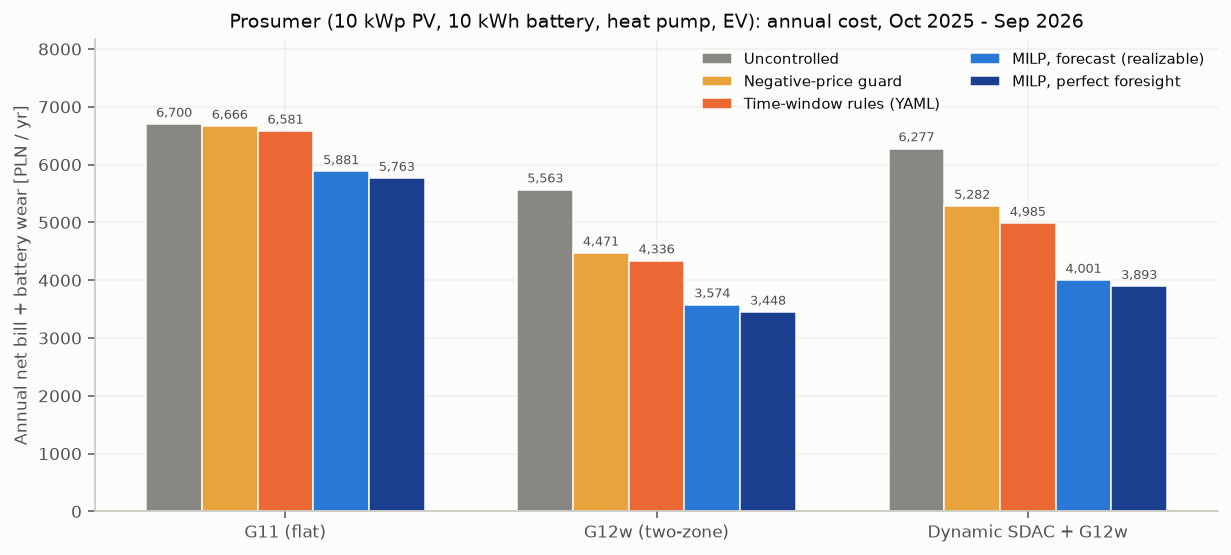
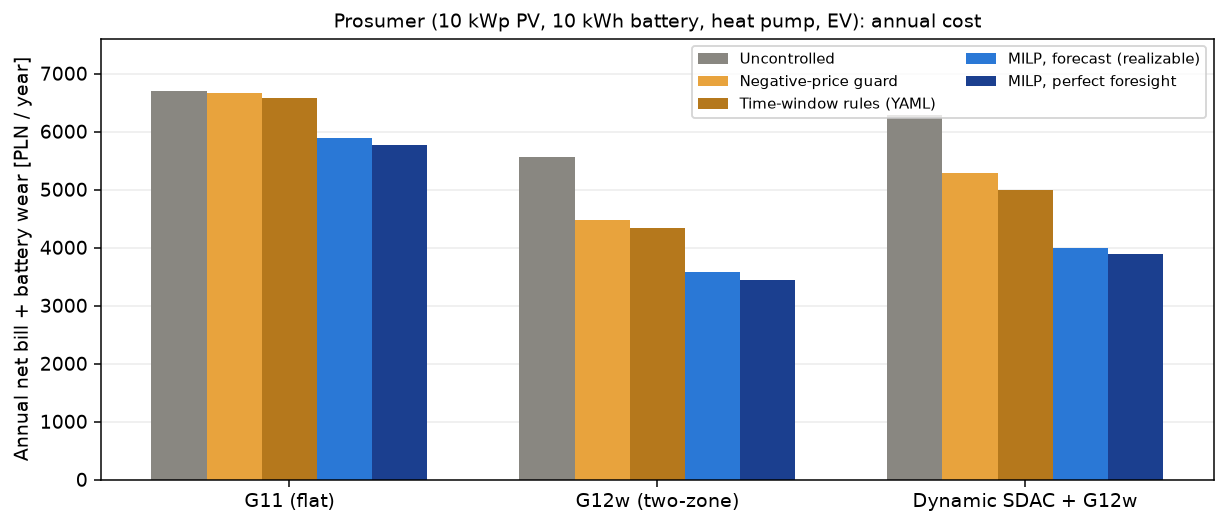
Match matplotlib chart styling to pl-biogas-flex

Changed region(s): [[0.0, 0.0, 0.991, 0.9752]]

diff --git a/src/hems_mpc/pipeline.py b/src/hems_mpc/pipeline.py
@@ -193,7 +193,7 @@ def run_modbus_hil_verification(
 def _save(fig, path: Path) -> None:
     path.parent.mkdir(parents=True, exist_ok=True)
     fig.tight_layout()
-    fig.savefig(path, dpi=135, bbox_inches="tight", facecolor="#fcfcfb")
+    fig.savefig(path, dpi=135, bbox_inches="tight")
     plt.close(fig)
 
 
@@ -207,42 +207,27 @@ def generate_plots(
     ha_24h_frames: list[dict],
     img_dir: Path,
 ) -> None:
-    """Write README charts in the portfolio's light paper style."""
+    """Write README charts in the exact default matplotlib style of pl-biogas-flex and bess-ops-warranty."""
     img_dir.mkdir(parents=True, exist_ok=True)
-    INK, INK2, MUTED, GRID, SURFACE = "#0b0b0b", "#52514e", "#898781", "#e1e0d9", "#fcfcfb"
-    BLUE, NAVY, ORANGE, WARM, GREEN, RED = "#2a78d6", "#1b3f8f", "#eb6834", "#e8a33d", "#1baf7a", "#c8423b"
-
-    plt.rcParams.update(
-        {
-            "font.family": "sans-serif",
-            "font.size": 9,
-            "axes.titlesize": 10,
-            "axes.titleweight": "normal",
-            "axes.grid": True,
-            "grid.alpha": 0.45,
-            "figure.facecolor": SURFACE,
-            "axes.facecolor": SURFACE,
-            "axes.edgecolor": "#c3c2b7",
-            "axes.labelcolor": INK2,
-            "xtick.color": INK2,
-            "ytick.color": INK2,
-            "text.color": INK,
-            "grid.color": GRID,
-        }
+    plt.rcdefaults()
+    BLUE, NAVY, ORANGE, WARM, GREEN, RED, GREY, INK = (
+        "#2a78d6",
+        "#1b3f8f",
+        "#eb6834",
+        "#e8a33d",
+        "#1baf7a",
+        "#c8423b",
+        "#898781",
+        "#52514e",
     )
 
-    def _style_ax(ax):
-        ax.spines["top"].set_visible(False)
-        ax.spines["right"].set_visible(False)
-        ax.set_axisbelow(True)
-
     # 1. Prosumer annual cost by tariff and control strategy
-    fig, ax = plt.subplots(figsize=(9.2, 4.2))
+    fig, ax = plt.subplots(figsize=(9.2, 4.0))
     tariffs = ["G11", "G12w", "DYNAMIC_G12w"]
     strategies = [
-        ("uncontrolled", "Uncontrolled", MUTED),
+        ("uncontrolled", "Uncontrolled", GREY),
         ("neg_price_guard", "Negative-price guard", WARM),
-        ("ha_heuristic", "Time-window rules (YAML)", ORANGE),
+        ("ha_heuristic", "Time-window rules (YAML)", "#b5781c"),
         ("mpc_forecast", "MILP, forecast (realizable)", BLUE),
         ("milp_oracle", "MILP, perfect foresight", NAVY),
     ]
@@ -257,28 +242,18 @@ def generate_plots(
             )
             for tf in tariffs
         ]
-        bars = ax.bar(x + (i - 2) * w, vals, width=w, label=st_label, color=color, edgecolor=SURFACE, linewidth=0.8)
-        for b in bars:
-            h = b.get_height()
-            ax.text(
-                b.get_x() + b.get_width() / 2.0,
-                h + 70,
-                f"{int(round(h)):,}",
-                ha="center",
-                va="bottom",
-                fontsize=7.2,
-                color=INK2,
-            )
-    _style_ax(ax)
+        ax.bar(x + (i - 2) * w, vals, width=w, label=st_label, color=color)
     ax.set_xticks(x, ["G11 (flat)", "G12w (two-zone)", "Dynamic SDAC + G12w"])
-    ax.set_ylabel("Annual net bill + battery wear [PLN / yr]")
-    ax.set_title("Prosumer (10 kWp PV, 10 kWh battery, heat pump, EV): annual cost, Oct 2025 - Sep 2026")
-    ax.set_ylim(0, max(df_prosumer_summary["total_economic_cost_pln"]) * 1.22)
-    ax.legend(loc="upper right", frameon=False, fontsize=8, ncol=2)
+    ax.set_ylabel("Annual net bill + battery wear [PLN / year]")
+    ax.set_title("Prosumer (10 kWp PV, 10 kWh battery, heat pump, EV): annual cost", fontsize=10)
+    ax.set_ylim(0, 7600)
+    ax.grid(axis="y", alpha=0.25)
+    ax.set_axisbelow(True)
+    ax.legend(loc="upper right", fontsize=8, ncol=2)
     _save(fig, img_dir / "bill_comparison.png")
 
     # 2. Example week dispatch (1-3 May 2026)
-    fig, axes = plt.subplots(3, 1, figsize=(9.6, 6.2), sharex=True)
+    fig, axes = plt.subplots(3, 1, figsize=(10.0, 6.2), sharex=True)
     ts_l = df_dyn_mpc["ts_local"]
     win = (ts_l >= pd.Timestamp("2026-05-01 00:00:00", tz="Europe/Warsaw")) & (
         ts_l < pd.Timestamp("2026-05-04 00:00:00", tz="Europe/Warsaw")
@@ -289,124 +264,124 @@ def generate_plots(
     s_unc = df_dyn_unc.loc[win]
     t_axis = s_mpc["ts_local"]
 
-    axes[0].plot(
+    axes[0].step(
         t_axis,
         s_mpc["energy_buy_pln_mwh"] + s_mpc["dist_buy_pln_mwh"],
-        label="Import price (SDAC + G12w)",
-        color=INK2,
-        lw=1.3,
+        where="post",
+        label="import price (SDAC + G12w)",
+        color=INK,
+        lw=0.9,
     )
-    axes[0].plot(t_axis, s_mpc["rce_raw_pln_mwh"], label="RCE export price", color=BLUE, lw=1.3)
-    axes[0].axhline(0.0, color=MUTED, ls="--", lw=0.8)
-    axes[0].fill_between(
+    axes[0].step(
         t_axis,
         s_mpc["rce_raw_pln_mwh"],
-        0.0,
-        where=(s_mpc["rce_raw_pln_mwh"] <= 0.0),
-        color=ORANGE,
-        alpha=0.22,
-        label="RCE <= 0 (0 PLN credit)",
+        where="post",
+        label="RCE export price",
+        color=BLUE,
+        lw=0.9,
+        ls="--",
     )
-    _style_ax(axes[0])
-    axes[0].set_ylabel("PLN / MWh")
-    axes[0].set_title("Dispatch on 1-3 May 2026 (Dynamic SDAC + G12w): negative midday RCE and evening peaks")
-    axes[0].legend(loc="upper right", ncol=3, frameon=False, fontsize=7.8)
+    axes[0].axhline(0.0, color="k", lw=0.6)
+    axes[0].set_ylabel("PLN/MWh")
+    axes[0].set_title("PL, 2026-05-01 .. 2026-05-03: quarter-hour prices and prosumer dispatch", fontsize=10)
+    axes[0].grid(alpha=0.25)
+    axes[0].legend(loc="upper right", fontsize=8)
 
-    axes[1].plot(t_axis, s_mpc["pv_avail_kw"], label="Available PV", color=WARM, lw=1.2)
-    axes[1].plot(
+    axes[1].step(t_axis, s_mpc["pv_avail_kw"], where="post", label="Available PV", color=WARM, lw=0.9)
+    axes[1].step(
         t_axis,
         s_mpc["p_ch_kw"] - s_mpc["p_dis_kw"],
+        where="post",
         label="Battery (+charge / -discharge)",
         color=BLUE,
-        lw=1.4,
+        lw=0.9,
     )
-    axes[1].plot(t_axis, s_mpc["p_hp_kw"] + s_mpc["p_ev_kw"], label="Heat pump + EV", color=GREEN, lw=1.2)
-    axes[1].fill_between(t_axis, 0, s_mpc["p_curt_kw"], color=RED, alpha=0.28, label="Curtailed PV")
-    _style_ax(axes[1])
+    axes[1].step(
+        t_axis,
+        s_mpc["p_hp_kw"] + s_mpc["p_ev_kw"],
+        where="post",
+        label="Heat pump + EV",
+        color=NAVY,
+        lw=0.9,
+    )
+    axes[1].step(t_axis, s_mpc["p_curt_kw"], where="post", label="Curtailed PV", color=ORANGE, lw=0.9, ls=":")
+    axes[1].axhline(0.0, color="k", lw=0.5)
     axes[1].set_ylabel("Power [kW]")
-    axes[1].legend(loc="upper right", ncol=4, frameon=False, fontsize=7.8)
+    axes[1].set_ylim(-6, 13.5)
+    axes[1].grid(alpha=0.25)
+    axes[1].legend(loc="upper right", fontsize=8, ncol=2)
 
-    axes[2].plot(t_axis, s_unc["soc_kwh"] * 10.0, label="Uncontrolled", color=MUTED, ls="--", lw=1.2)
-    axes[2].plot(t_axis, s_mpc["soc_kwh"] * 10.0, label="MILP, forecast (realizable)", color=BLUE, lw=1.6)
-    _style_ax(axes[2])
-    axes[2].set_ylabel("SoC [%]")
-    axes[2].set_ylim(0, 105)
-    axes[2].legend(loc="upper right", ncol=2, frameon=False, fontsize=8)
+    axes[2].plot(t_axis, s_unc["soc_kwh"] * 10.0, label="Uncontrolled", color=GREY, lw=1.0)
+    axes[2].plot(t_axis, s_mpc["soc_kwh"] * 10.0, label="MILP, forecast (realizable)", color=BLUE, lw=1.1)
+    axes[2].set_ylabel("Battery SoC [%]")
+    axes[2].set_ylim(5, 102)
+    axes[2].grid(alpha=0.25)
+    axes[2].legend(loc="lower right", fontsize=8)
     _save(fig, img_dir / "dispatch_week.png")
 
     # 3. C&I B23 site cost breakdown & K-factor
-    fig, (ax1, ax2) = plt.subplots(1, 2, figsize=(9.6, 3.9))
+    fig, (ax1, ax2) = plt.subplots(1, 2, figsize=(9.4, 3.8))
     modes = ["no_bess", "uncontrolled_bess", "mpc_ci_ems"]
     labels = ["PV only", "PV + battery\n(self-consumption)", "PV + battery\n(MILP, forecast)"]
     e_cost = [ci_results[m]["annual_energy_dist_pln"] / 1000.0 for m in modes]
     cap_cost = [ci_results[m]["annual_capacity_fee_pln"] / 1000.0 for m in modes]
     pen_cost = [ci_results[m]["annual_exceed_penalty_pln"] / 1000.0 for m in modes]
-    net_tot = [ci_results[m]["annual_total_net_cost_pln"] / 1000.0 for m in modes]
 
     x_ci = np.arange(len(modes))
-    ax1.bar(x_ci, e_cost, width=0.46, label="Energy + B23 distribution", color=BLUE)
-    ax1.bar(x_ci, cap_cost, width=0.46, bottom=e_cost, label="PSE capacity fee", color=WARM)
+    ax1.bar(x_ci, e_cost, width=0.45, label="Energy + B23 distribution", color=BLUE)
+    ax1.bar(x_ci, cap_cost, width=0.45, bottom=e_cost, label="PSE capacity fee", color=WARM)
     ax1.bar(
         x_ci,
         pen_cost,
-        width=0.46,
+        width=0.45,
         bottom=np.array(e_cost) + np.array(cap_cost),
-        label="Contracted power penalty (>40 kW)",
+        label=">40 kW penalty",
         color=RED,
     )
-    for i, tot in enumerate(net_tot):
-        ax1.text(
-            i,
-            e_cost[i] + cap_cost[i] + pen_cost[i] + 2.5,
-            f"net {tot:.1f} k",
-            ha="center",
-            fontsize=8,
-            color=INK,
-        )
-    _style_ax(ax1)
-    ax1.set_xticks(x_ci, labels)
-    ax1.set_ylabel("Thousand PLN / yr")
-    ax1.set_title("C&I site (50 kWp PV, 100 kWh battery, B23)")
-    ax1.set_ylim(0, max(np.array(e_cost) + np.array(cap_cost) + np.array(pen_cost)) * 1.28)
-    ax1.legend(loc="upper right", frameon=False, fontsize=7.5)
+    ax1.set_xticks(x_ci, labels, fontsize=8.5)
+    ax1.set_ylabel("Thousand PLN / year")
+    ax1.set_title("C&I site on B23: annual cost components", fontsize=10)
+    ax1.set_ylim(0, 185)
+    ax1.grid(axis="y", alpha=0.25)
+    ax1.set_axisbelow(True)
+    ax1.legend(loc="upper right", fontsize=8)
 
     k1_shares = [ci_results[m]["k1_days_share_pct"] for m in modes]
     k_mults = [ci_results[m]["effective_k_mult"] * 100.0 for m in modes]
-    b1 = ax2.bar(x_ci - 0.16, k1_shares, width=0.30, label="Working days in K1 (<5 % peak/off-peak)", color=GREEN)
-    b2 = ax2.bar(x_ci + 0.16, k_mults, width=0.30, label="Mean capacity-fee factor A [%]", color=ORANGE)
-    for b in b1:
-        ax2.text(b.get_x() + b.get_width() / 2, b.get_height() + 2, f"{b.get_height():.0f}%", ha="center", fontsize=7.8)
-    for b in b2:
-        ax2.text(b.get_x() + b.get_width() / 2, b.get_height() + 2, f"{b.get_height():.0f}%", ha="center", fontsize=7.8)
-    _style_ax(ax2)
-    ax2.set_xticks(x_ci, labels)
+    ax2.bar(x_ci - 0.16, k1_shares, width=0.30, label="Working days in K1 (<5 %)", color=BLUE)
+    ax2.bar(x_ci + 0.16, k_mults, width=0.30, label="Mean factor A [%]", color=WARM)
+    ax2.set_xticks(x_ci, labels, fontsize=8.5)
     ax2.set_ylabel("Share of days / factor A [%]")
-    ax2.set_ylim(0, 118)
-    ax2.set_title("PSE capacity fee K-factor (Art. 70a)")
-    ax2.legend(loc="upper right", frameon=False, fontsize=7.5)
+    ax2.set_ylim(0, 115)
+    ax2.set_title("PSE capacity fee K-factor (Art. 70a)", fontsize=10)
+    ax2.grid(axis="y", alpha=0.25)
+    ax2.set_axisbelow(True)
+    ax2.legend(loc="upper left", fontsize=8)
     _save(fig, img_dir / "ci_k_factor.png")
 
     # 4. Modbus TCP closed-loop trace
-    fig, (ax_a, ax_b) = plt.subplots(2, 1, figsize=(9.4, 4.6), sharex=True)
+    fig, (ax_a, ax_b) = plt.subplots(2, 1, figsize=(9.4, 4.5), sharex=True)
     sub_hil = df_hil.iloc[192:288]
     t_h = sub_hil["timestamp_local"]
-    ax_a.plot(t_h, sub_hil["cmd_batt_w"] / 1000.0, label="Commanded battery (reg 40002)", color=INK2, ls="--", lw=1.2)
-    ax_a.plot(t_h, sub_hil["actual_batt_w"] / 1000.0, label="Executed battery (reg 40013)", color=BLUE, lw=1.5)
-    ax_a.plot(t_h, sub_hil["curtailed_pv_w"] / 1000.0, label="Curtailed PV (reg 40015)", color=ORANGE, lw=1.3)
-    _style_ax(ax_a)
+    ax_a.step(t_h, sub_hil["cmd_batt_w"] / 1000.0, where="post", label="Commanded battery (reg 40002)", color=INK, ls="--", lw=0.9)
+    ax_a.step(t_h, sub_hil["actual_batt_w"] / 1000.0, where="post", label="Executed battery (reg 40013)", color=BLUE, lw=1.0)
+    ax_a.step(t_h, sub_hil["curtailed_pv_w"] / 1000.0, where="post", label="Curtailed PV (reg 40015)", color=ORANGE, lw=0.9)
+    ax_a.axhline(0.0, color="k", lw=0.5)
     ax_a.set_ylabel("Power [kW]")
-    ax_a.set_title("Closed-loop Modbus TCP trace on 1 May 2026 with a 45-minute communication drop")
-    ax_a.legend(loc="upper right", frameon=False, fontsize=7.8, ncol=3)
+    ax_a.set_ylim(-6, 10.5)
+    ax_a.set_title("Modbus TCP loop on 1 May 2026: 45-minute heartbeat drop at 12:00", fontsize=10)
+    ax_a.grid(alpha=0.25)
+    ax_a.legend(loc="upper left", fontsize=8)
 
-    ax_b.plot(t_h, sub_hil["soc_pct"], label="Inverter SoC (reg 40010)", color=BLUE, lw=1.5)
+    ax_b.plot(t_h, sub_hil["soc_pct"], label="Inverter SoC (reg 40010)", color=BLUE, lw=1.1)
     ax_b.fill_between(
         t_h,
         0,
         100,
         where=(sub_hil["comms_lost"] > 0),
         color=RED,
-        alpha=0.18,
-        label="No heartbeat from EMS (45 min)",
+        alpha=0.16,
+        label="No heartbeat from EMS (12:00-12:45)",
     )
     ax_b.fill_between(
         t_h,
@@ -414,30 +389,32 @@ def generate_plots(
         100,
         where=(sub_hil["watchdog_tripped"] > 0),
         color=WARM,
-        alpha=0.35,
-        label="Watchdog tripped (reg 40016 = 1 -> local self-consumption)",
+        alpha=0.32,
+        label="Watchdog tripped (reg 40016 = 1)",
     )
-    _style_ax(ax_b)
     ax_b.set_ylabel("SoC [%]")
-    ax_b.set_ylim(0, 105)
-    ax_b.legend(loc="upper right", frameon=False, fontsize=7.8, ncol=3)
+    ax_b.set_ylim(0, 108)
+    ax_b.grid(alpha=0.25)
+    ax_b.legend(loc="lower left", fontsize=8)
     _save(fig, img_dir / "modbus_hil_loop.png")
 
     # 5. Home Assistant entities & aggregated fleet reserve
-    fig, (ax_l, ax_r) = plt.subplots(1, 2, figsize=(9.6, 3.8))
+    fig, (ax_l, ax_r) = plt.subplots(1, 2, figsize=(9.4, 3.7))
     hours_24 = np.arange(len(ha_24h_frames)) * 0.25
     sg_modes = [f["sg_mode"] for f in ha_24h_frames]
     ev_amps = [f["ev_amps"] for f in ha_24h_frames]
     bess_kw_24 = [f["bess_w"] / 1000.0 for f in ha_24h_frames]
 
-    ax_l.step(hours_24, ev_amps, where="post", label="Wallbox current [A] (OCPP)", color=BLUE, lw=1.4)
-    ax_l.plot(hours_24, bess_kw_24, label="Battery setpoint [kW]", color=GREEN, lw=1.3)
-    ax_l.step(hours_24, sg_modes, where="post", label="Heat pump SG Ready state (1-4)", color=ORANGE, lw=1.3, ls="--")
-    _style_ax(ax_l)
+    ax_l.step(hours_24, ev_amps, where="post", label="Wallbox current [A] (OCPP)", color=BLUE, lw=1.0)
+    ax_l.step(hours_24, bess_kw_24, where="post", label="Battery setpoint [kW]", color=GREEN, lw=1.0)
+    ax_l.step(hours_24, sg_modes, where="post", label="Heat pump SG Ready (1-4)", color=ORANGE, lw=1.0, ls="--")
+    ax_l.axhline(0.0, color="k", lw=0.5)
     ax_l.set_xlabel("Hour on 1 May 2026")
     ax_l.set_ylabel("A / kW / state")
-    ax_l.set_title("Home Assistant entities on 1 May 2026")
-    ax_l.legend(loc="upper left", frameon=False, fontsize=7.5)
+    ax_l.set_ylim(-6, 19)
+    ax_l.set_title("Home Assistant entities on 1 May 2026", fontsize=10)
+    ax_l.grid(alpha=0.25)
+    ax_l.legend(loc="upper left", fontsize=8)
 
     cats = ["Installed\npower", "P50 upward", "P90 upward", "P90 downward"]
     mw_vals = [
@@ -446,17 +423,15 @@ def generate_plots(
         vpp_summary["p90_firm_upward_mw"],
         vpp_summary["p90_firm_downward_mw"],
     ]
-    bars_v = ax_r.bar(np.arange(len(cats)), mw_vals, width=0.48, color=[MUTED, WARM, BLUE, NAVY])
-    for b in bars_v:
-        h = b.get_height()
-        ax_r.text(b.get_x() + b.get_width() / 2, h + 0.04, f"{h:.2f}", ha="center", fontsize=8, color=INK2)
+    ax_r.bar(np.arange(len(cats)), mw_vals, width=0.45, color=[GREY, WARM, BLUE, NAVY])
     ax_r.axhline(1.0, color=RED, ls="--", lw=1.0, label="1.0 MW bid threshold")
-    _style_ax(ax_r)
-    ax_r.set_xticks(np.arange(len(cats)), cats)
+    ax_r.set_xticks(np.arange(len(cats)), cats, fontsize=8.5)
     ax_r.set_ylabel("MW")
-    ax_r.set_ylim(0, max(mw_vals) * 1.24)
-    ax_r.set_title("Aggregated reserve (250 homes + 15 C&I sites)")
-    ax_r.legend(loc="upper right", frameon=False, fontsize=7.5)
+    ax_r.set_ylim(0, 2.35)
+    ax_r.set_title("Aggregated reserve (250 homes + 15 C&I sites)", fontsize=10)
+    ax_r.grid(axis="y", alpha=0.25)
+    ax_r.set_axisbelow(True)
+    ax_r.legend(loc="upper right", fontsize=8)
     _save(fig, img_dir / "ha_vpp_overview.png")
 
 
